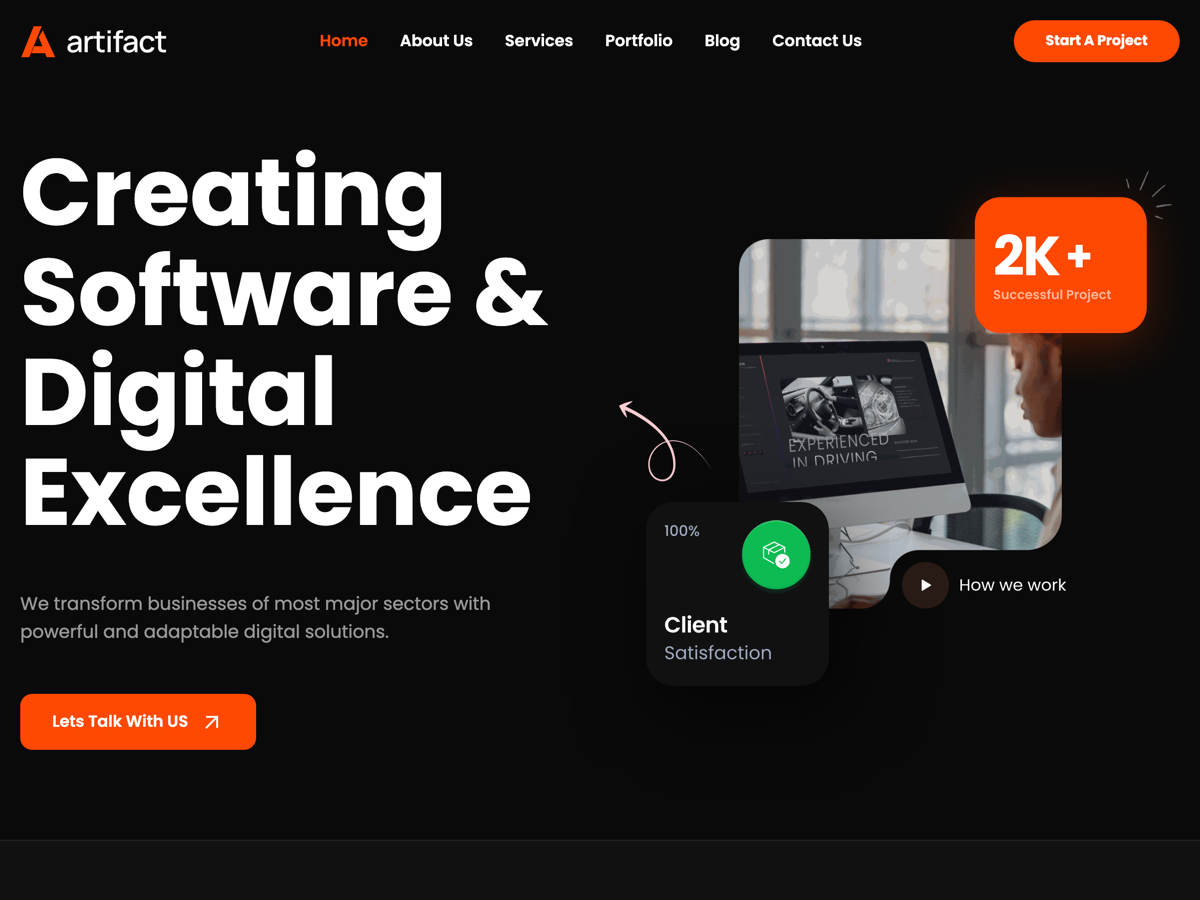
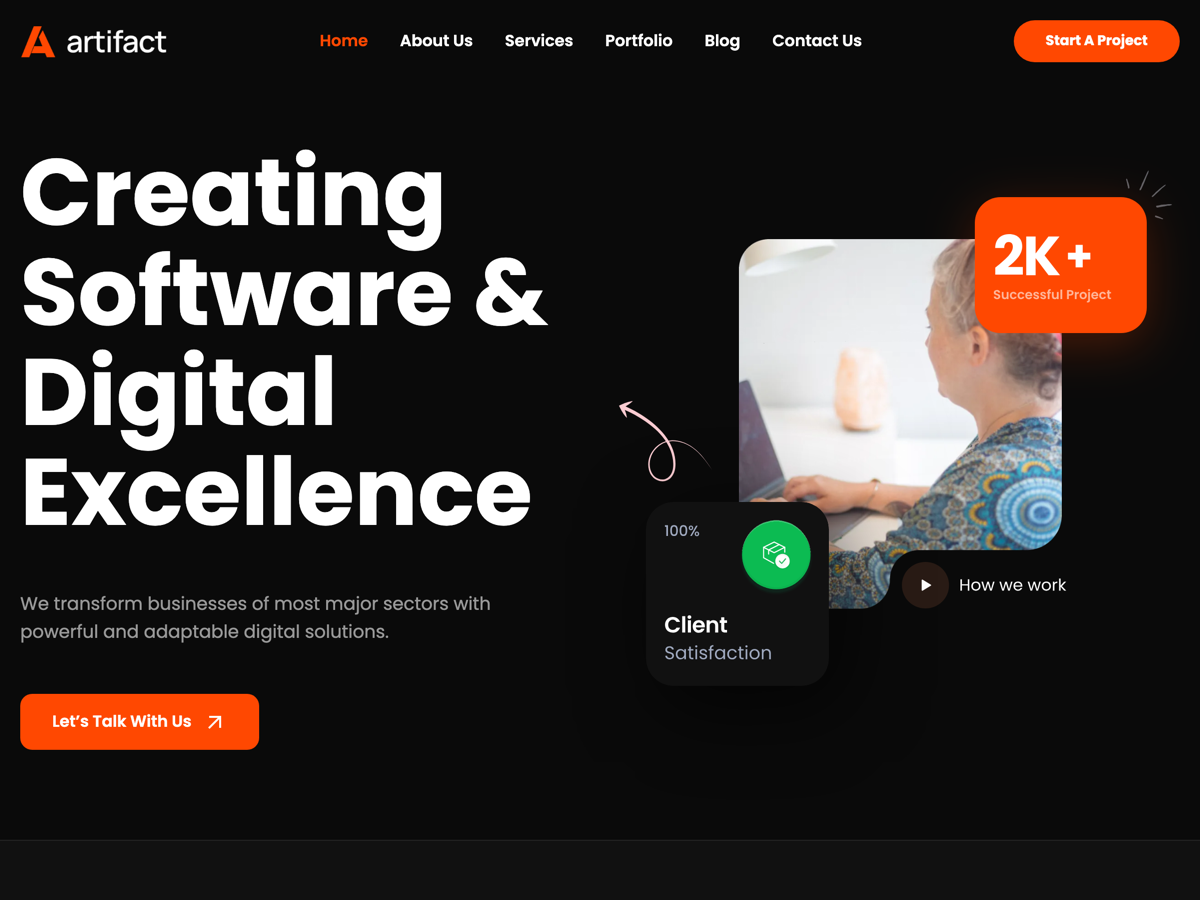
fix(review): replace unlicensed people photos and address re-audit
- Replace the Figma-exported people photos (hero, about, work desk, team
  cards, testimonials) with CC0 StockSnap photos credited in readme.txt;
  test that every photo has a StockSnap credit
- Retake screenshot.png with the new hero
- Point the CTA, hero and View All buttons at real targets, and give the
  contact page social links real URLs
- Name each Get Started link for screen readers; hide the hero ornaments
- Show post tags on single posts; rename Similar posts to More articles
- Show the current year and site name in the footer copyright
- Reword the TGMPA notice; drop languages/.gitkeep

Changed region(s): [[0.6167, 0.2489, 0.8942, 0.6844], [0.0617, 0.7778, 0.185, 0.8089]]

diff --git a/templates/single.html b/templates/single.html
@@ -24,13 +24,15 @@
 
 		<!-- wp:post-content {"layout":{"type":"constrained"}} /-->
 
+		<!-- wp:post-terms {"term":"post_tag","className":"artifact-tag-list"} /-->
+
 		<!-- wp:separator {"align":"wide","className":"is-style-wide"} -->
 		<hr class="wp-block-separator alignwide has-alpha-channel-opacity is-style-wide"/>
 		<!-- /wp:separator -->
 
 		<!-- wp:group {"align":"wide","style":{"spacing":{"blockGap":"40px"}},"layout":{"type":"constrained"}} -->
 		<div class="wp-block-group alignwide">
-			<!-- wp:pattern {"slug":"artifact/hidden-similar-posts-heading"} /-->
+			<!-- wp:pattern {"slug":"artifact/hidden-more-articles-heading"} /-->
 
 			<!-- wp:query {"queryId":5,"query":{"perPage":2,"pages":0,"offset":0,"postType":"post","order":"desc","orderBy":"date","author":"","search":"","exclude":[],"sticky":"exclude","inherit":false},"align":"wide","className":"artifact-latest-articles"} -->
 			<div class="wp-block-query alignwide artifact-latest-articles">

diff --git a/tests/e2e/homepage.spec.js b/tests/e2e/homepage.spec.js
@@ -190,8 +190,8 @@ test.describe( 'Homepage', () => {
 		expect( images.length ).toBeGreaterThanOrEqual( 8 );
 		for ( const image of images ) {
 			expect( image.alt, `${ image.src } has an alt attribute` ).not.toBeNull();
-			// Icons beside text are decorative; photos and artwork need a description.
-			if ( ! /\/icon-[^/]+\.svg$/.test( image.src ) ) {
+			// Icons and ornaments are decorative; photos and artwork need a description.
+			if ( ! /\/(icon-[^/]+|hero-sparkle|hero-vector-pink)\.svg$/.test( image.src ) ) {
 				expect( image.alt, `${ image.src } has alt text` ).toBeTruthy();
 			}
 		}

diff --git a/tests/e2e/editor.spec.js b/tests/e2e/editor.spec.js
@@ -99,7 +99,7 @@ test.describe( 'Patterns in the block editor', () => {
 		'artifact/hidden-no-results',
 		'artifact/hidden-blog-heading',
 		'artifact/hidden-archive-heading',
-		'artifact/hidden-similar-posts-heading',
+		'artifact/hidden-more-articles-heading',
 		'artifact/hidden-search',
 	];
 

diff --git a/patterns/hero.php b/patterns/hero.php
@@ -9,14 +9,13 @@
  */
 
 $artifact_arrow        = esc_url( get_parent_theme_file_uri( 'assets/images/icon-arrow-outward.svg' ) );
+$artifact_email        = __( 'contact@example.com', 'artifact' );
 $artifact_sparkle      = esc_url( get_parent_theme_file_uri( 'assets/images/hero-sparkle.svg' ) );
-$artifact_sparkle_alt  = esc_attr__( 'Sparkle', 'artifact' );
 $artifact_badge        = esc_url( get_parent_theme_file_uri( 'assets/images/hero-badge-projects.svg' ) );
 $artifact_badge_alt    = esc_attr__( '2K+ Successful Projects', 'artifact' );
-$artifact_main         = esc_url( get_parent_theme_file_uri( 'assets/images/hero-illustration-main.png' ) );
-$artifact_main_alt     = esc_attr__( 'Product team at a workstation', 'artifact' );
+$artifact_main         = esc_url( get_parent_theme_file_uri( 'assets/images/hero-illustration-main.webp' ) );
+$artifact_main_alt     = esc_attr__( 'Developer working on a laptop at a bright desk', 'artifact' );
 $artifact_pink         = esc_url( get_parent_theme_file_uri( 'assets/images/hero-vector-pink.svg' ) );
-$artifact_pink_alt     = esc_attr__( 'Decorative swirl', 'artifact' );
 $artifact_card         = esc_url( get_parent_theme_file_uri( 'assets/images/hero-card-client.svg' ) );
 $artifact_card_alt     = esc_attr__( '100% Client Satisfaction', 'artifact' );
 $artifact_pill         = esc_url( get_parent_theme_file_uri( 'assets/images/hero-pill-work.svg' ) );
@@ -39,7 +38,7 @@ $artifact_pill_alt     = esc_attr__( 'How we work', 'artifact' );
 			<!-- wp:buttons -->
 			<div class="wp-block-buttons">
 				<!-- wp:button {"backgroundColor":"primary","textColor":"text-white","className":"is-style-rounded artifact-button-icon","fontSize":"button-large"} -->
-				<div class="wp-block-button is-style-rounded artifact-button-icon"><a class="wp-block-button__link has-text-white-color has-primary-background-color has-text-color has-background has-button-large-font-size has-custom-font-size wp-element-button" href="#"><?php echo esc_html__( 'Let’s Talk With Us', 'artifact' ); ?> <img src="<?php echo $artifact_arrow; ?>" alt="" width="24" height="24"/></a></div>
+				<div class="wp-block-button is-style-rounded artifact-button-icon"><a class="wp-block-button__link has-text-white-color has-primary-background-color has-text-color has-background has-button-large-font-size has-custom-font-size wp-element-button" href="<?php echo esc_url( 'mailto:' . $artifact_email ); ?>"><?php echo esc_html__( 'Let’s Talk With Us', 'artifact' ); ?> <img src="<?php echo $artifact_arrow; ?>" alt="" width="24" height="24"/></a></div>
 				<!-- /wp:button -->
 			</div>
 			<!-- /wp:buttons -->
@@ -51,7 +50,7 @@ $artifact_pill_alt     = esc_attr__( 'How we work', 'artifact' );
 			<!-- wp:group {"className":"artifact-hero-illustration","layout":{"type":"default"}} -->
 			<div class="wp-block-group artifact-hero-illustration">
 				<!-- wp:image {"sizeSlug":"full","linkDestination":"none","className":"artifact-hero-illust__sparkle"} -->
-				<figure class="wp-block-image size-full artifact-hero-illust__sparkle"><img src="<?php echo $artifact_sparkle; ?>" alt="<?php echo $artifact_sparkle_alt; ?>"/></figure>
+				<figure class="wp-block-image size-full artifact-hero-illust__sparkle"><img src="<?php echo $artifact_sparkle; ?>" alt=""/></figure>
 				<!-- /wp:image -->
 
 				<!-- wp:image {"sizeSlug":"full","linkDestination":"none","className":"artifact-hero-illust__badge"} -->
@@ -63,7 +62,7 @@ $artifact_pill_alt     = esc_attr__( 'How we work', 'artifact' );
 				<!-- /wp:image -->
 
 				<!-- wp:image {"sizeSlug":"full","linkDestination":"none","className":"artifact-hero-illust__pink"} -->
-				<figure class="wp-block-image size-full artifact-hero-illust__pink"><img src="<?php echo $artifact_pink; ?>" alt="<?php echo $artifact_pink_alt; ?>"/></figure>
+				<figure class="wp-block-image size-full artifact-hero-illust__pink"><img src="<?php echo $artifact_pink; ?>" alt=""/></figure>
 				<!-- /wp:image -->
 
 				<!-- wp:image {"sizeSlug":"full","linkDestination":"none","className":"artifact-hero-illust__card"} -->

diff --git a/patterns/work-process.php b/patterns/work-process.php
@@ -44,7 +44,7 @@ $artifact_arrow_right = esc_url( get_parent_theme_file_uri( 'assets/images/icon-
 						<!-- /wp:paragraph -->
 
 						<!-- wp:paragraph {"textColor":"text-white"} -->
-						<p class="has-text-white-color has-text-color"><a href="#"><?php echo esc_html__( 'Get Started', 'artifact' ); ?> <img src="<?php echo $artifact_arrow_right; ?>" alt="" width="16" height="16"/></a></p>
+						<p class="has-text-white-color has-text-color"><a href="#"><?php echo esc_html__( 'Get Started', 'artifact' ); ?><span class="screen-reader-text"> <?php echo esc_html__( 'with your proposal', 'artifact' ); ?></span> <img src="<?php echo $artifact_arrow_right; ?>" alt="" width="16" height="16"/></a></p>
 						<!-- /wp:paragraph -->
 					</div>
 					<!-- /wp:accordion-panel -->
@@ -64,7 +64,7 @@ $artifact_arrow_right = esc_url( get_parent_theme_file_uri( 'assets/images/icon-
 						<!-- /wp:paragraph -->
 
 						<!-- wp:paragraph {"textColor":"text-white"} -->
-						<p class="has-text-white-color has-text-color"><a href="#"><?php echo esc_html__( 'Get Started', 'artifact' ); ?> <img src="<?php echo $artifact_arrow_right; ?>" alt="" width="16" height="16"/></a></p>
+						<p class="has-text-white-color has-text-color"><a href="#"><?php echo esc_html__( 'Get Started', 'artifact' ); ?><span class="screen-reader-text"> <?php echo esc_html__( 'with our development team', 'artifact' ); ?></span> <img src="<?php echo $artifact_arrow_right; ?>" alt="" width="16" height="16"/></a></p>
 						<!-- /wp:paragraph -->
 					</div>
 					<!-- /wp:accordion-panel -->
@@ -84,7 +84,7 @@ $artifact_arrow_right = esc_url( get_parent_theme_file_uri( 'assets/images/icon-
 						<!-- /wp:paragraph -->
 
 						<!-- wp:paragraph {"textColor":"text-white"} -->
-						<p class="has-text-white-color has-text-color"><a href="#"><?php echo esc_html__( 'Get Started', 'artifact' ); ?> <img src="<?php echo $artifact_arrow_right; ?>" alt="" width="16" height="16"/></a></p>
+						<p class="has-text-white-color has-text-color"><a href="#"><?php echo esc_html__( 'Get Started', 'artifact' ); ?><span class="screen-reader-text"> <?php echo esc_html__( 'with project support', 'artifact' ); ?></span> <img src="<?php echo $artifact_arrow_right; ?>" alt="" width="16" height="16"/></a></p>
 						<!-- /wp:paragraph -->
 					</div>
 					<!-- /wp:accordion-panel -->
@@ -106,7 +106,7 @@ $artifact_arrow_right = esc_url( get_parent_theme_file_uri( 'assets/images/icon-
 		<!-- wp:column {"width":"58%"} -->
 		<div class="wp-block-column is-vertically-aligned-center" style="flex-basis:58%">
 			<!-- wp:image {"sizeSlug":"full","linkDestination":"none","style":{"border":{"radius":"24px"}}} -->
-			<figure class="wp-block-image size-full has-custom-border"><img src="<?php echo $artifact_desk; ?>" alt="<?php echo esc_attr__( 'Laptop, notebook, and coffee on a desk', 'artifact' ); ?>" style="border-radius:24px"/></figure>
+			<figure class="wp-block-image size-full has-custom-border"><img src="<?php echo $artifact_desk; ?>" alt="<?php echo esc_attr__( 'Developer coding on a laptop beside a coffee and a phone', 'artifact' ); ?>" style="border-radius:24px"/></figure>
 			<!-- /wp:image -->
 		</div>
 		<!-- /wp:column -->

diff --git a/patterns/testimonials.php b/patterns/testimonials.php
@@ -11,42 +11,42 @@ $artifact_stars = esc_url( get_parent_theme_file_uri( 'assets/images/stars-ratin
 $artifact_icon_alt = esc_attr__( '5 stars', 'artifact' );
 $artifact_stories = array(
 	array(
-		'photo' => 'story-wade-a.png',
+		'photo' => 'story-wade-a.jpg',
 		'name'  => __( 'Wade Warren', 'artifact' ),
 		'role'  => __( 'CEO, ABC Corporation', 'artifact' ),
 		'quote' => __( '“I just wanted to share a quick note and let you know that you guys do a really good job. I’m glad I decided to work with you. It’s really great how easy your websites are to update and manage.”', 'artifact' ),
 		'alt'   => __( 'Portrait of Wade Warren', 'artifact' ),
 	),
 	array(
-		'photo' => 'team-b.png',
+		'photo' => 'team-b.jpg',
 		'name'  => __( 'Esther Howard', 'artifact' ),
 		'role'  => __( 'VP of Marketing, TechFlow', 'artifact' ),
 		'quote' => __( '“It’s all good. It was worth a fortune to my company. It is the most valuable business resource we have ever invested in. The turnaround time was incredible.”', 'artifact' ),
 		'alt'   => __( 'Portrait of Esther Howard', 'artifact' ),
 	),
 	array(
-		'photo' => 'story-wade-b.png',
+		'photo' => 'story-wade-b.jpg',
 		'name'  => __( 'Cameron Williamson', 'artifact' ),
 		'role'  => __( 'Founder, StudioDesign', 'artifact' ),
 		'quote' => __( '“Artifact exceeded our expectations on every single front. Their engineering standard, attention to typography, and performance is world-class. Our core web vitals went from red to straight 100s across mobile and desktop. I cannot recommend them highly enough.”', 'artifact' ),
 		'alt'   => __( 'Portrait of Cameron Williamson', 'artifact' ),
 	),
 	array(
-		'photo' => 'team-d.png',
+		'photo' => 'team-d.jpg',
 		'name'  => __( 'Jenny Wilson', 'artifact' ),
 		'role'  => __( 'Head of Product, Apex Global', 'artifact' ),
 		'quote' => __( '“The seamless integration and responsive design delivered exactly what we needed to scale our enterprise platform effortlessly.”', 'artifact' ),
 		'alt'   => __( 'Portrait of Jenny Wilson', 'artifact' ),
 	),
 	array(
-		'photo' => 'story-wade-c.png',
+		'photo' => 'story-wade-c.jpg',
 		'name'  => __( 'Robert Fox', 'artifact' ),
 		'role'  => __( 'CTO, CloudSphere', 'artifact' ),
 		'quote' => __( '“Working with Artifact felt like having an elite engineering team in-house. They understood complex requirements immediately and executed with flawless precision. Truly exceptional work from start to finish.”', 'artifact' ),
 		'alt'   => __( 'Portrait of Robert Fox', 'artifact' ),
 	),
 	array(
-		'photo' => 'team-f.png',
+		'photo' => 'team-f.jpg',
 		'name'  => __( 'Leslie Alexander', 'artifact' ),
 		'role'  => __( 'Managing Director, Horizon Media', 'artifact' ),
 		'quote' => __( '“Outstanding quality, clear communication, and impeccable design sense. They turned our ambitious vision into reality faster than we thought possible.”', 'artifact' ),

diff --git a/tests/phpunit/unit/ThemeStandardsTest.php b/tests/phpunit/unit/ThemeStandardsTest.php
@@ -151,7 +151,7 @@ class ThemeStandardsTest extends TestCase {
 	public function test_bundled_images_are_documented_in_the_readme() {
 		$readme = Artifact_Theme_Files::read( 'readme.txt' );
 		$images = Artifact_Theme_Files::files_in( 'assets/images', 'jpg' );
-		$images = array_merge( $images, Artifact_Theme_Files::files_in( 'assets/images', 'svg' ), Artifact_Theme_Files::files_in( 'assets/images', 'png' ) );
+		$images = array_merge( $images, Artifact_Theme_Files::files_in( 'assets/images', 'svg' ), Artifact_Theme_Files::files_in( 'assets/images', 'png' ), Artifact_Theme_Files::files_in( 'assets/images', 'webp' ) );
 
 		$this->assertNotEmpty( $images );
 		foreach ( $images as $image ) {
@@ -184,17 +184,17 @@ class ThemeStandardsTest extends TestCase {
 	}
 
 	/**
-	 * Service, About and Portfolio page photos come from StockSnap, whose
-	 * photos are all CC0.
+	 * Every photo, people included, comes from StockSnap, whose photos are
+	 * all CC0, and is credited with its page.
 	 */
 	public function test_stock_photos_are_cc0_and_credited_in_the_readme() {
 		$credit = $this->readme_entry( 'StockSnap' );
-		$photos = array_merge( glob( Artifact_Theme_Files::path( 'assets/images/service-*.jpg' ) ), glob( Artifact_Theme_Files::path( 'assets/images/company-*.jpg' ) ), glob( Artifact_Theme_Files::path( 'assets/images/portfolio-*.jpg' ) ) );
+		$photos = array_merge( Artifact_Theme_Files::files_in( 'assets/images', 'jpg' ), array( Artifact_Theme_Files::path( 'assets/images/hero-illustration-main.webp' ) ) );
 
 		$this->assertStringContainsString( 'CC0', $credit );
 		$this->assertNotEmpty( $photos );
 		foreach ( $photos as $photo ) {
-			$this->assertStringContainsString( basename( $photo ), $credit, basename( $photo ) . ' is not credited to StockSnap' );
+			$this->assertMatchesRegularExpression( '#' . preg_quote( basename( $photo ), '#' ) . ' \(https://stocksnap\.io/photo/[a-z0-9-]+-[A-Z0-9]{10}\b#', $credit, basename( $photo ) . ' is not credited to a StockSnap page' );
 		}
 	}
 

diff --git a/patterns/project-cta.php b/patterns/project-cta.php
@@ -12,6 +12,7 @@ $artifact_arrow = esc_url( get_parent_theme_file_uri( 'assets/images/icon-arrow-
 $artifact_subtitle = esc_html__( 'Let’s Collaborate', 'artifact' );
 $artifact_title = esc_html__( 'Got A Project? Let’s Talk.', 'artifact' );
 $artifact_button = esc_html__( 'Start A Project', 'artifact' );
+$artifact_email = __( 'contact@example.com', 'artifact' );
 ?>
 <!-- wp:group {"align":"full","className":"artifact-cta","style":{"spacing":{"padding":{"top":"var:preset|spacing|70","bottom":"var:preset|spacing|70","left":"var:preset|spacing|20","right":"var:preset|spacing|20"}}},"backgroundColor":"main-bg","layout":{"type":"constrained"}} -->
 <div class="wp-block-group alignfull artifact-cta has-main-bg-background-color has-background" style="padding-top:var(--wp--preset--spacing--70);padding-right:var(--wp--preset--spacing--20);padding-bottom:var(--wp--preset--spacing--70);padding-left:var(--wp--preset--spacing--20)">
@@ -32,7 +33,7 @@ $artifact_button = esc_html__( 'Start A Project', 'artifact' );
 		<!-- wp:buttons {"layout":{"type":"flex","justifyContent":"center"}} -->
 		<div class="wp-block-buttons">
 			<!-- wp:button {"backgroundColor":"main-bg","textColor":"text-white","className":"artifact-button-icon"} -->
-			<div class="wp-block-button artifact-button-icon"><a class="wp-block-button__link has-text-white-color has-main-bg-background-color has-text-color has-background wp-element-button" href="#"><?php echo $artifact_button; ?> <img src="<?php echo $artifact_arrow; ?>" alt="" width="24" height="24"/></a></div>
+			<div class="wp-block-button artifact-button-icon"><a class="wp-block-button__link has-text-white-color has-main-bg-background-color has-text-color has-background wp-element-button" href="<?php echo esc_url( 'mailto:' . $artifact_email ); ?>"><?php echo $artifact_button; ?> <img src="<?php echo $artifact_arrow; ?>" alt="" width="24" height="24"/></a></div>
 			<!-- /wp:button -->
 		</div>
 		<!-- /wp:buttons -->

diff --git a/patterns/contact-info.php b/patterns/contact-info.php
@@ -60,10 +60,10 @@ $artifact_arrow          = esc_url( get_parent_theme_file_uri( 'assets/images/ic
 
 				<!-- wp:social-links {"iconColor":"text-color","size":"has-normal-icon-size","className":"is-style-logos-only","style":{"spacing":{"blockGap":{"left":"16px"}}}} -->
 				<ul class="wp-block-social-links has-normal-icon-size has-icon-color is-style-logos-only">
-					<!-- wp:social-link {"url":"#","service":"facebook","label":"<?php echo esc_attr__( 'Facebook', 'artifact' ); ?>"} /-->
-					<!-- wp:social-link {"url":"#","service":"x","label":"<?php echo esc_attr__( 'X', 'artifact' ); ?>"} /-->
-					<!-- wp:social-link {"url":"#","service":"linkedin","label":"<?php echo esc_attr__( 'LinkedIn', 'artifact' ); ?>"} /-->
-					<!-- wp:social-link {"url":"#","service":"instagram","label":"<?php echo esc_attr__( 'Instagram', 'artifact' ); ?>"} /-->
+					<!-- wp:social-link {"url":"https://www.facebook.com/","service":"facebook","label":"<?php echo esc_attr__( 'Facebook', 'artifact' ); ?>"} /-->
+					<!-- wp:social-link {"url":"https://x.com/","service":"x","label":"<?php echo esc_attr__( 'X', 'artifact' ); ?>"} /-->
+					<!-- wp:social-link {"url":"https://www.linkedin.com/","service":"linkedin","label":"<?php echo esc_attr__( 'LinkedIn', 'artifact' ); ?>"} /-->
+					<!-- wp:social-link {"url":"https://www.instagram.com/","service":"instagram","label":"<?php echo esc_attr__( 'Instagram', 'artifact' ); ?>"} /-->
 				</ul>
 				<!-- /wp:social-links -->
 			</div>

diff --git a/patterns/footer.php b/patterns/footer.php
@@ -129,7 +129,7 @@ $artifact_privacy_label = esc_html__( 'Privacy Policy', 'artifact' );
 	<!-- wp:group {"align":"full","style":{"spacing":{"padding":{"top":"var:preset|spacing|20","bottom":"var:preset|spacing|20","left":"var:preset|spacing|20","right":"var:preset|spacing|20"}},"border":{"top":{"color":"var:preset|color|border","style":"solid","width":"1px"}}},"layout":{"type":"constrained"}} -->
 	<div class="wp-block-group alignfull" style="border-top-color:var(--wp--preset--color--border);border-top-style:solid;border-top-width:1px;padding-top:var(--wp--preset--spacing--20);padding-right:var(--wp--preset--spacing--20);padding-bottom:var(--wp--preset--spacing--20);padding-left:var(--wp--preset--spacing--20)">
 		<!-- wp:paragraph {"align":"center","textColor":"text-color","fontSize":"small-paragraph"} -->
-		<p class="has-text-align-center has-text-color-color has-text-color has-small-paragraph-font-size"><?php echo esc_html__( '© 2026 Artifact, All Rights Reserved.', 'artifact' ); ?></p>
+		<p class="has-text-align-center has-text-color-color has-text-color has-small-paragraph-font-size"><?php echo esc_html( sprintf( /* translators: 1: current year, 2: site name. */ __( '© %1$s %2$s, All Rights Reserved.', 'artifact' ), gmdate( 'Y' ), get_bloginfo( 'name' ) ) ); ?></p>
 		<!-- /wp:paragraph -->
 	</div>
 	<!-- /wp:group -->

diff --git a/patterns/latest-articles.php b/patterns/latest-articles.php
@@ -31,7 +31,7 @@ $artifact_arrow = esc_url( get_parent_theme_file_uri( 'assets/images/icon-arrow-
 		<!-- wp:buttons -->
 		<div class="wp-block-buttons">
 			<!-- wp:button {"backgroundColor":"primary","textColor":"text-white","className":"artifact-button-icon"} -->
-			<div class="wp-block-button artifact-button-icon"><a class="wp-block-button__link has-text-white-color has-primary-background-color has-text-color has-background wp-element-button" href="#"><?php echo esc_html__( 'View All', 'artifact' ); ?> <img src="<?php echo $artifact_arrow; ?>" alt="" width="24" height="24"/></a></div>
+			<div class="wp-block-button artifact-button-icon"><a class="wp-block-button__link has-text-white-color has-primary-background-color has-text-color has-background wp-element-button" href="<?php echo esc_url( get_post_type_archive_link( 'post' ) ); ?>"><?php echo esc_html__( 'View All', 'artifact' ); ?> <img src="<?php echo $artifact_arrow; ?>" alt="" width="24" height="24"/></a></div>
 			<!-- /wp:button -->
 		</div>
 		<!-- /wp:buttons -->

diff --git a/patterns/about.php b/patterns/about.php
@@ -29,7 +29,7 @@ $artifact_arrow = esc_url( get_parent_theme_file_uri( 'assets/images/icon-arrow-
 		<!-- wp:column {"width":"40%"} -->
 		<div class="wp-block-column is-vertically-aligned-center" style="flex-basis:40%">
 			<!-- wp:image {"sizeSlug":"full","linkDestination":"none","style":{"border":{"radius":"24px"}},"className":"is-style-rounded"} -->
-			<figure class="wp-block-image size-full has-custom-border is-style-rounded"><img src="<?php echo $artifact_about; ?>" alt="<?php echo esc_attr__( 'Three colleagues reviewing work on a laptop', 'artifact' ); ?>" style="border-radius:24px"/></figure>
+			<figure class="wp-block-image size-full has-custom-border is-style-rounded"><img src="<?php echo $artifact_about; ?>" alt="<?php echo esc_attr__( 'Colleagues discussing a project around an office table', 'artifact' ); ?>" style="border-radius:24px"/></figure>
 			<!-- /wp:image -->
 		</div>
 		<!-- /wp:column -->
